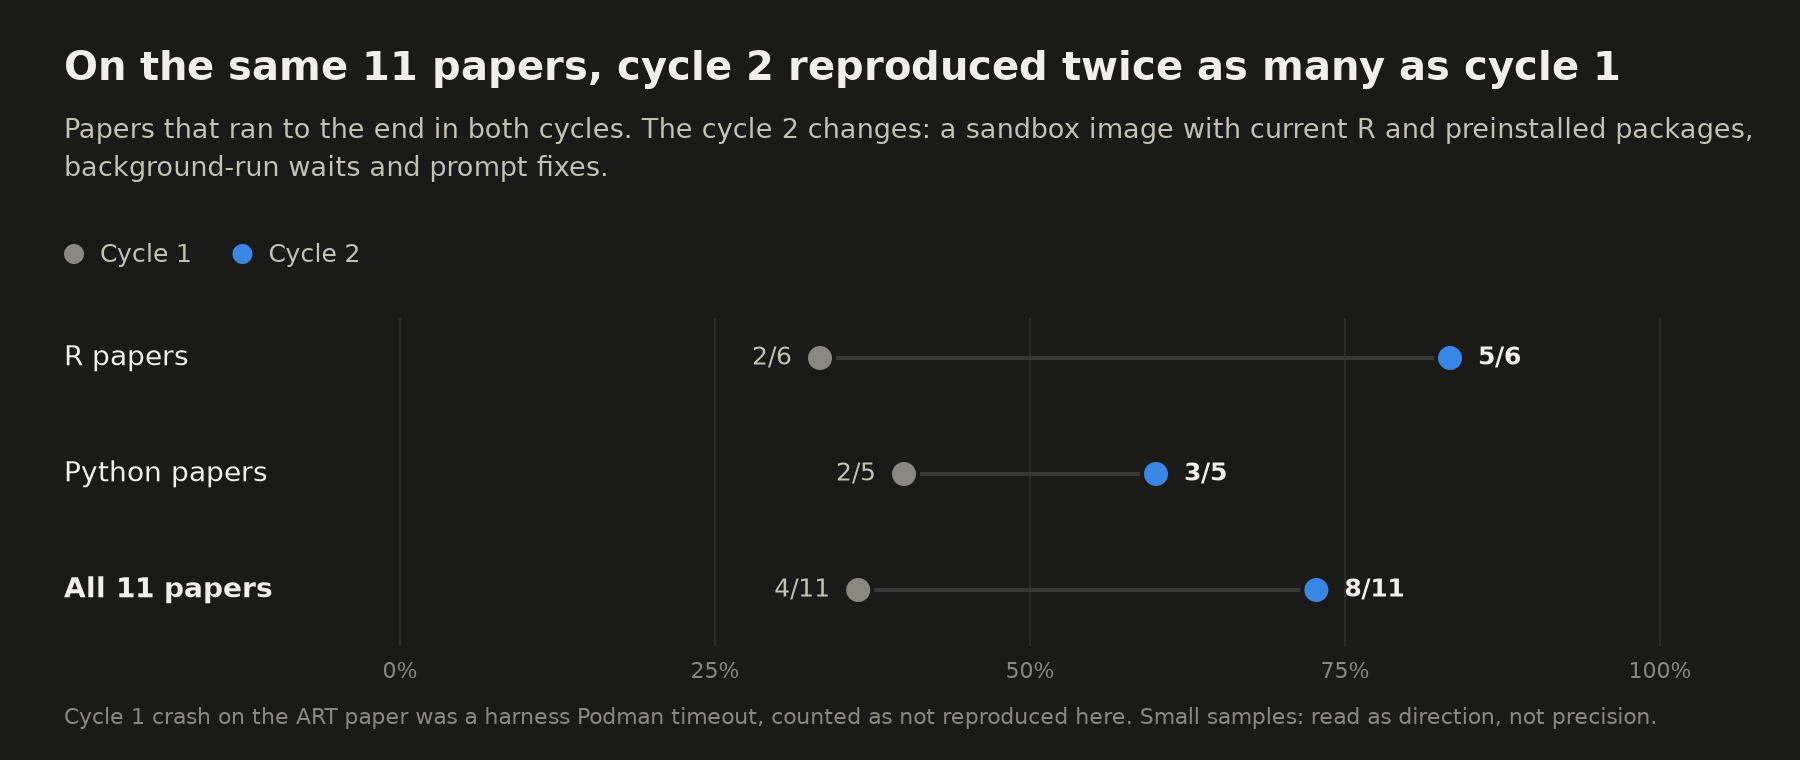
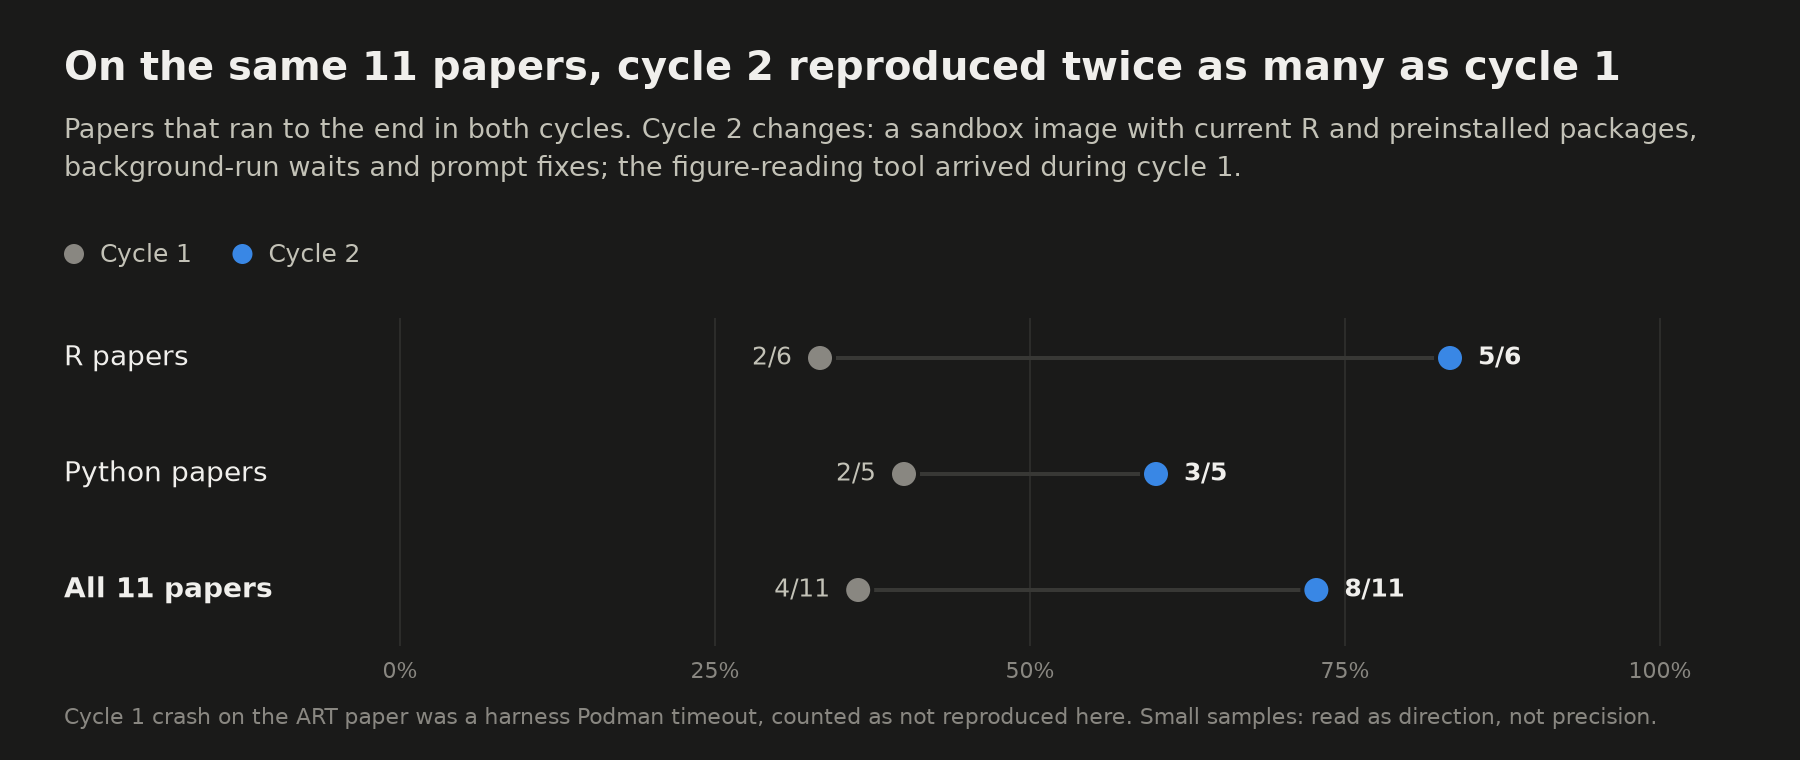
Figure 2: the figure-reading tool arrived during cycle 1
look_at_figure was first committed at 17:44 (5fe5815), when cycle 2 started,
but it was in the checkout partway through cycle 1: 5 cycle 1 runs used it.

Changed region(s): [[0.3422, 0.1513, 0.9644, 0.1816], [0.3422, 0.2118, 0.6844, 0.2421]]

diff --git a/research/eval-2026-11-14/scripts/render.py b/research/eval-2026-11-14/scripts/render.py
@@ -202,8 +202,8 @@ def chart_same_papers(t, mode):
     W, H = 900, 380
     cv = Canvas(W, H, t)
     y = cv.header("On the same 11 papers, cycle 2 reproduced twice as many as cycle 1",
-                  "Papers that ran to the end in both cycles. The cycle 2 changes: a sandbox image with current R and "
-                  "preinstalled packages, background-run waits and prompt fixes.")
+                  "Papers that ran to the end in both cycles. Cycle 2 changes: a sandbox image with current R and "
+                  "preinstalled packages, background-run waits and prompt fixes; the figure-reading tool arrived during cycle 1.")
     c1, c2 = t["muted"], t["s"][0]
     y = cv.legend(32, y + 24, [("Cycle 1", c1), ("Cycle 2", c2)], shape="dot")
     rows = [("R papers", 2, 5, 6), ("Python papers", 2, 3, 5), ("All 11 papers", 4, 8, 11)]
